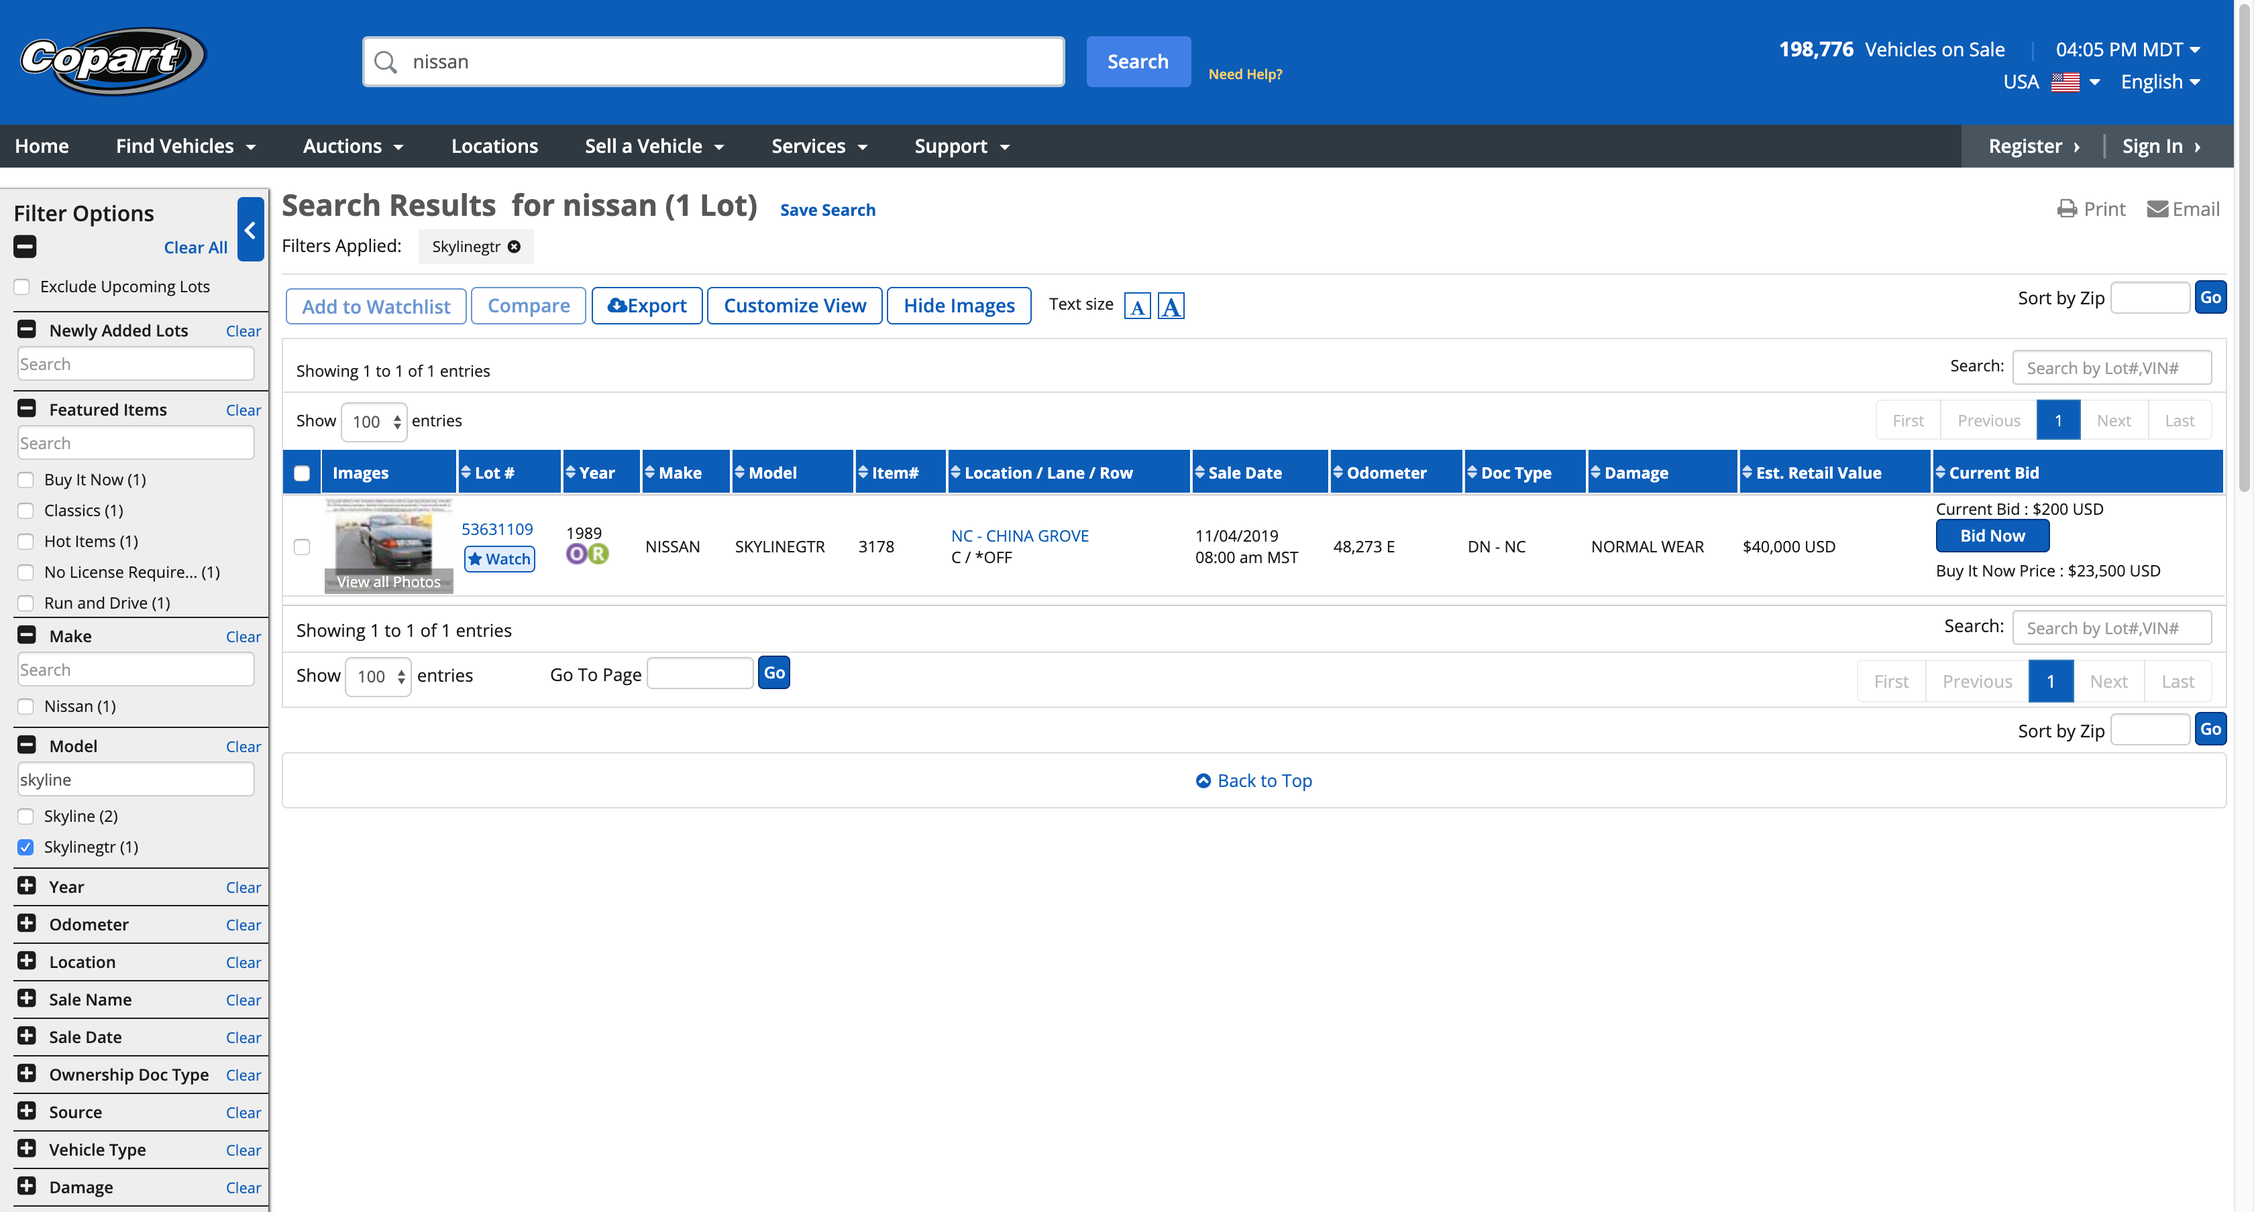
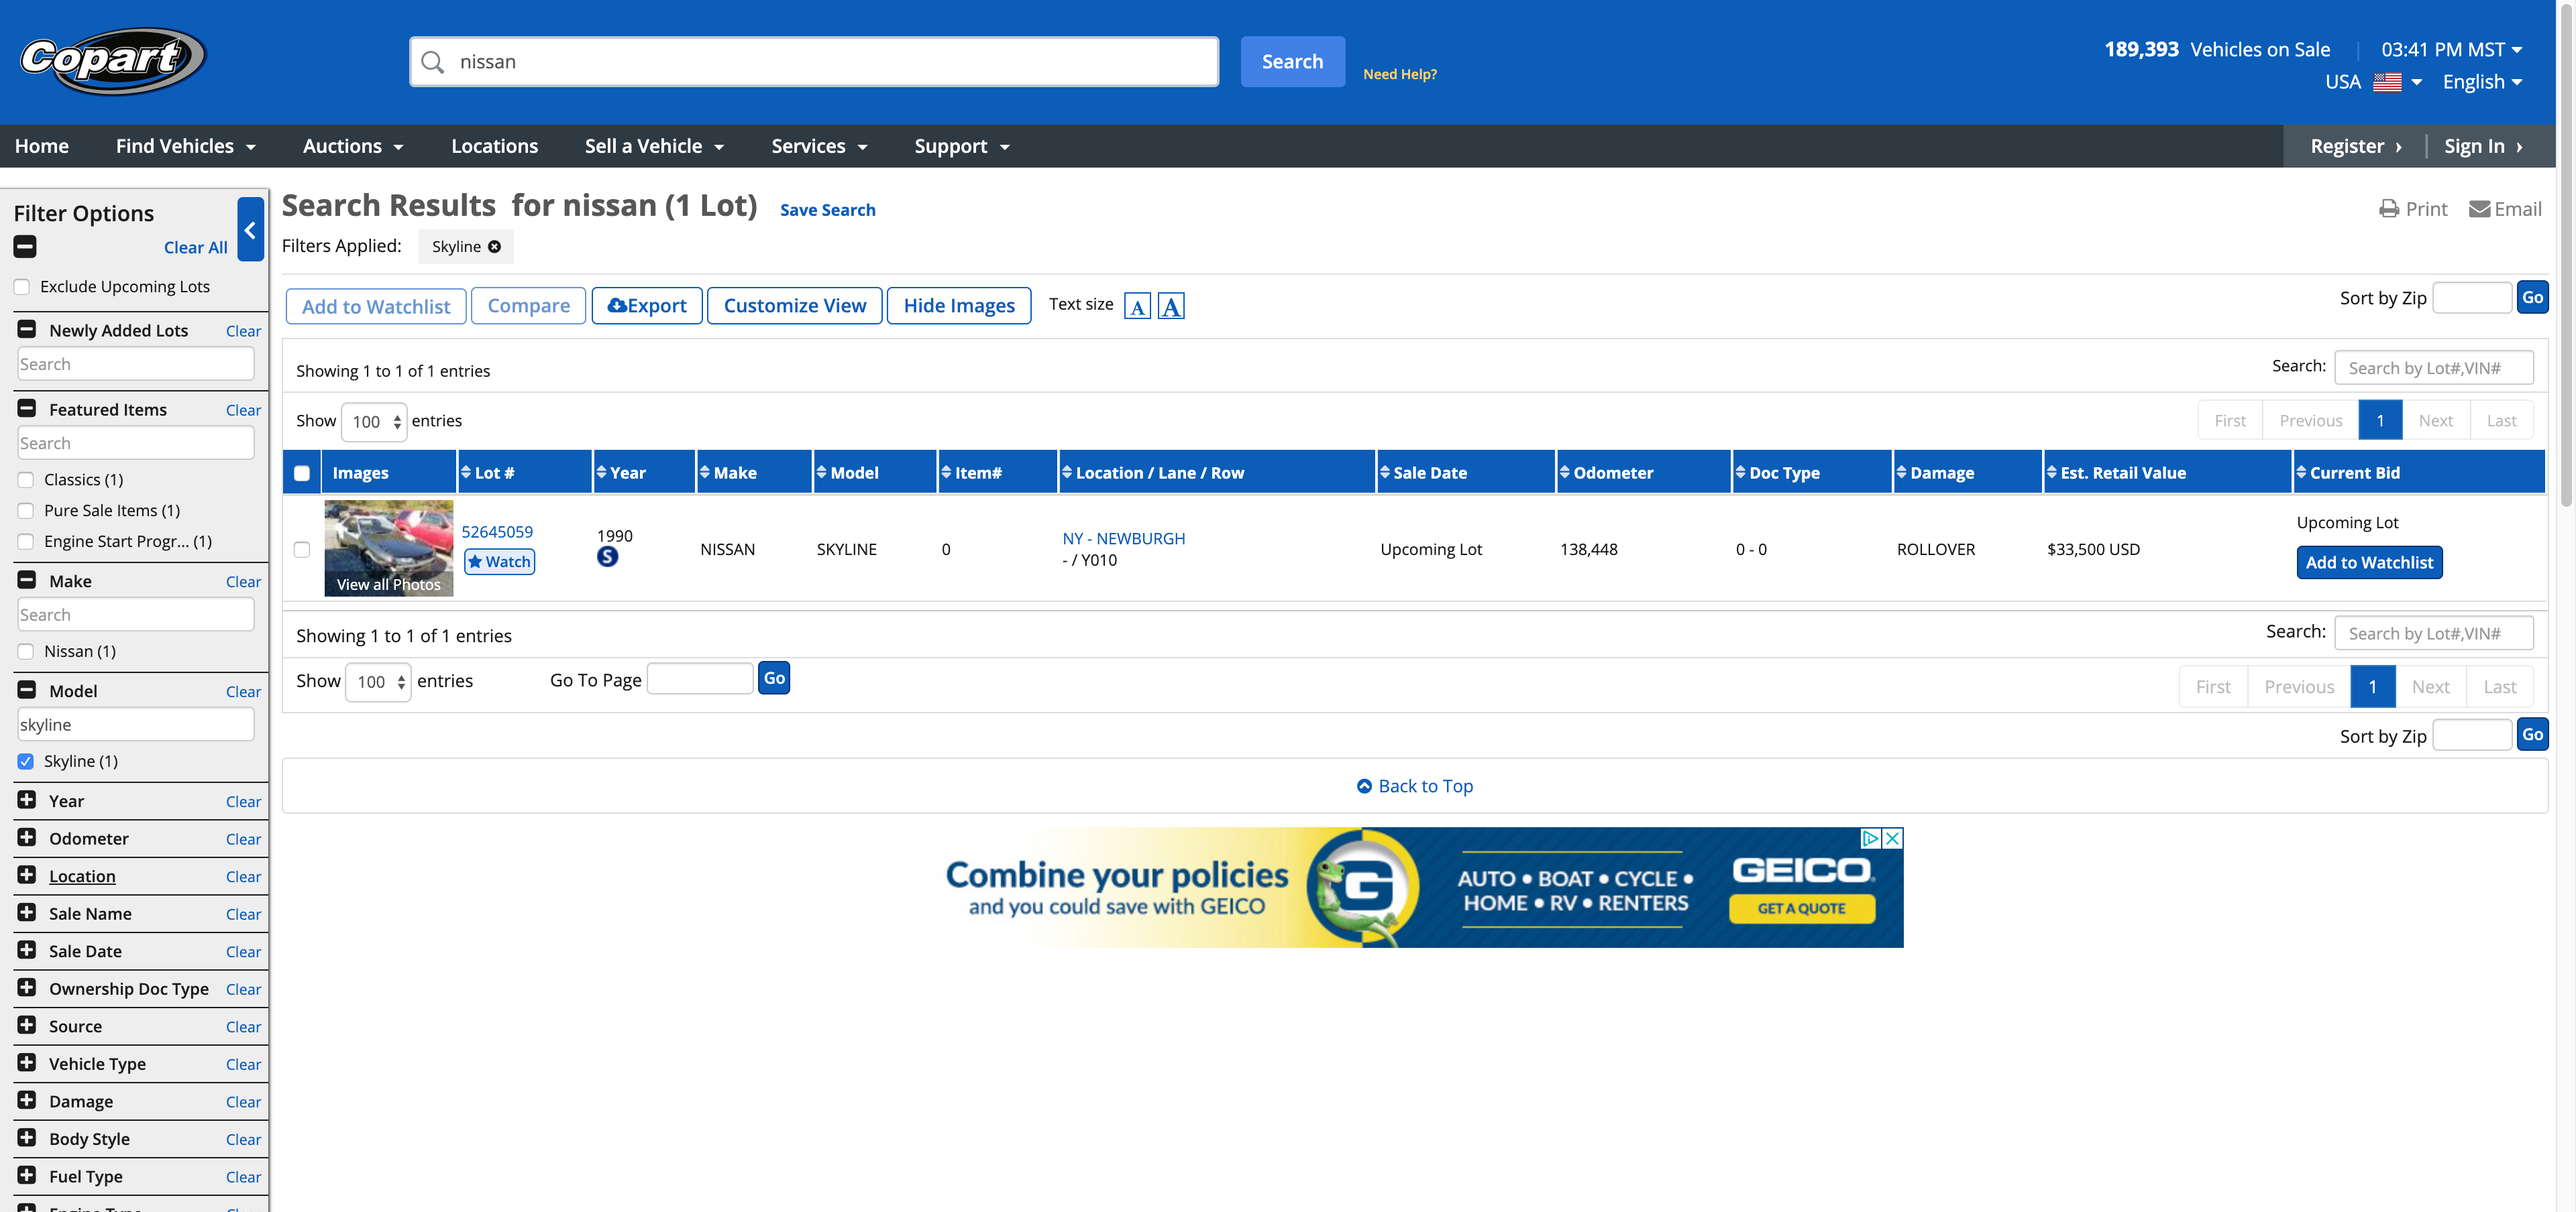
updated challenge6.js and started the tracking of out.png

diff --git a/Challenge6/challenge6.js b/Challenge6/challenge6.js
@@ -65,7 +65,7 @@ describe("Challenge6 suite", function(){
      }
  
      catch (e){
-        let filterCheckbox = await driver.findElement(By.xpath("//*[@id='lot_model_descSKYLINEGTR']"));
+        let filterCheckbox = await driver.findElement(By.xpath("//*[@id='lot_model_descSKYLINE']"));
         filterCheckbox.click();
         await driver.wait(until.elementIsNotVisible(driver.findElement(By.id('serverSideDataTable_processing'), 20000)));
         screenShot.takeScreen();
